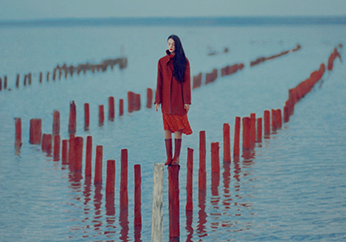
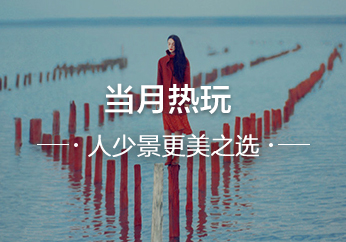
首页改版优化5.17

diff --git a/assets/index.html b/assets/index.html
@@ -76,23 +76,15 @@
 						<ul class="recommends_tab clearfix">
                 <li>
                   <a href="index-hotplay.html">
-                    <div class="hot_sea_bg"></div>
                     <img src="images/index/hot_play.jpg" class="hot_sea">
-                    <div class="hot_sea_text">
-                      <h5>当月热玩</h5>
-                      <p>人少景更美最优之选</p>
-                    </div>
                   </a>
                 </li>
                 <li>
-                  <a href="index-hotplay.html" class="fl">
+                  <a href="index-seaticket.html">
                     <img src="images/index/sea_ticket.jpg" class="hot_sea">
-                    <div class="hot_sea_text">
-                      <h5>海外门票</h5>
-                      <p>去感受异国风情</p>
-                    </div>
                   </a>
                 </li>
+              </a>
 						</ul>
 					</div>
 				</div>

diff --git a/assets/css/index.css b/assets/css/index.css
@@ -50,25 +50,7 @@ body{
 }
 
 /*当月热玩*/
-.hot_sea_text {
-  width: 3.2rem;
-  height: 1rem;
-  position: absolute;
-  left: 50%;
-  top: 50%;
-  text-align: center;
-  margin-left: -1.6rem;
-  margin-top: -.5rem;
-  color: #fff;
-}
 
-.hot_sea_text > h5 {
-  font-size: .32rem;
-}
-
-.hot_sea_text > p {
-  font-size: .24rem;
-}
 .recommends_tab{
   padding: 0 .2rem;
 }
@@ -80,17 +62,6 @@ body{
 
 .recommends_tab li:last-child {
   margin-left: .18rem;
-}
-
-.hot_sea_bg {
-  width: 100%;
-  height: 100%;
-  background-color: #000;
-  opacity: 0.3;
-  filter: alpha(opacity:30);
-  position: absolute;
-  left: 0;
-  top: 0;
 }
 
 .hot_sea {
